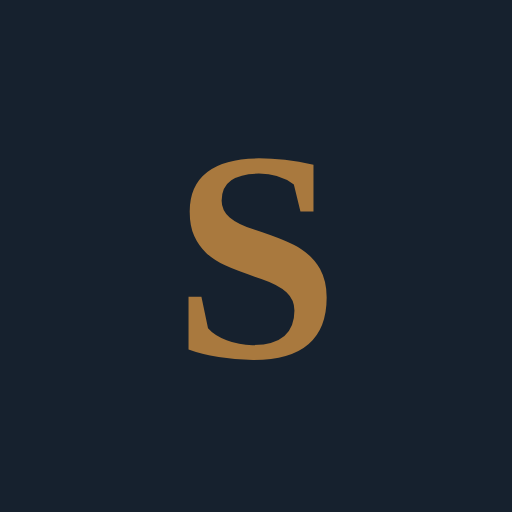
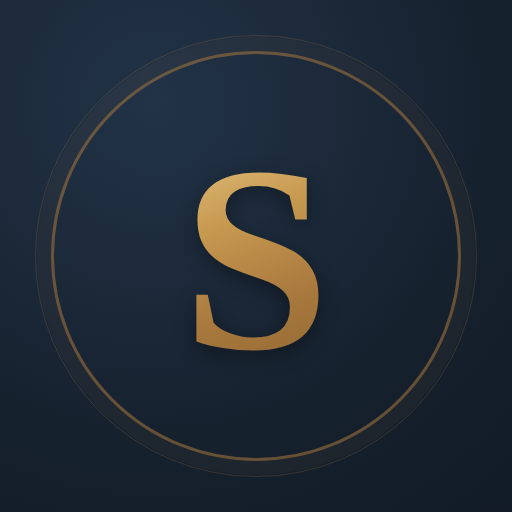
Novo ícone do app — emblema navy/dourado com monograma "S"
Substitui o ícone provisório (letra simples) por um emblema mais
elegante: fundo navy com gradiente sutil, anel dourado duplo e "S" em
serifada com gradiente metálico — combina com a identidade visual do
sistema (ink + brass). Adicionado também um favicon dedicado de 32px
(desenho mais simples, sem o anel, pra ficar legível na aba do navegador).

diff --git a/index.html b/index.html
@@ -6,7 +6,7 @@
     <meta name="theme-color" content="#16212E" />
     <link rel="manifest" href="/manifest.json" />
     <link rel="apple-touch-icon" href="/apple-touch-icon.png" />
-    <link rel="icon" href="/icon-192.png" />
+    <link rel="icon" href="/favicon-32.png" />
     <meta name="apple-mobile-web-app-capable" content="yes" />
     <meta name="apple-mobile-web-app-status-bar-style" content="black-translucent" />
     <meta name="apple-mobile-web-app-title" content="Schuck" />
